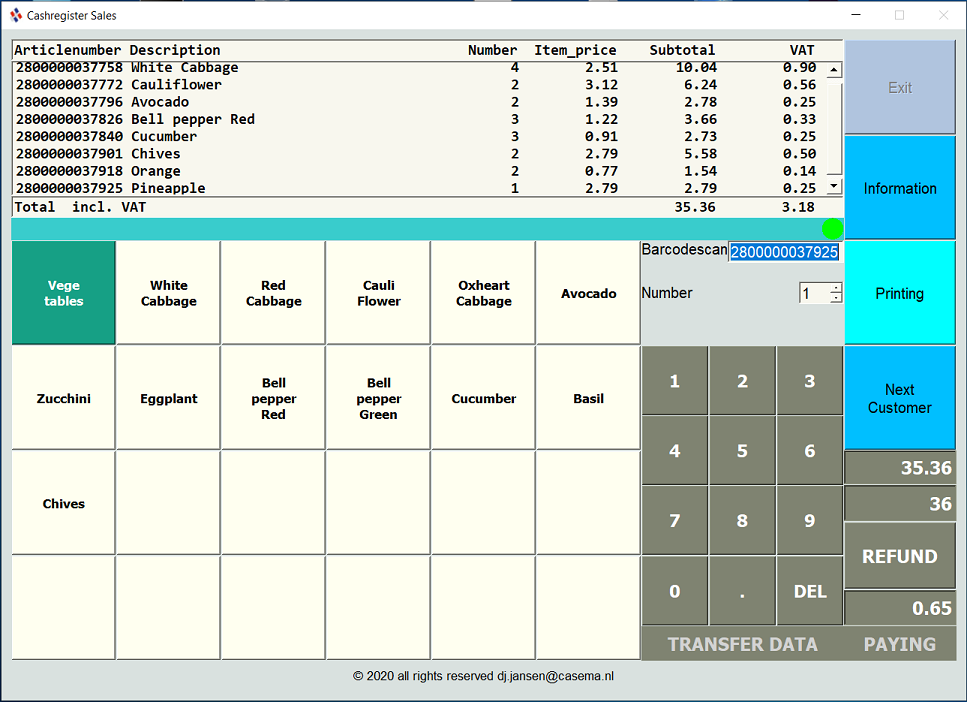
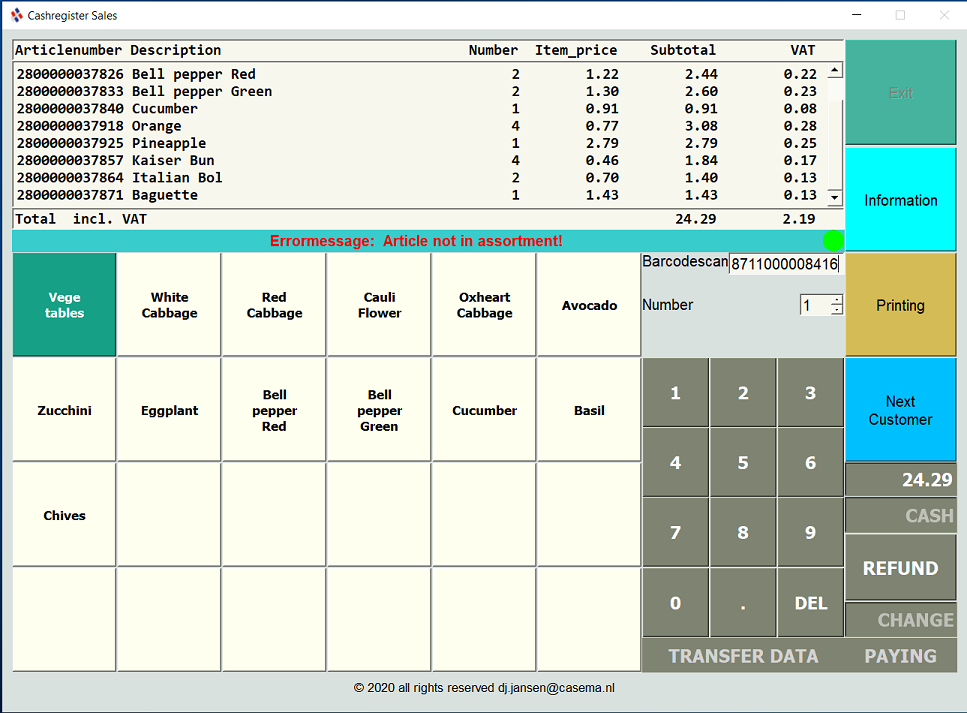
Add files via upload

diff --git a/sales.py b/sales.py
@@ -10,7 +10,7 @@ from PyQt5.QtWidgets import QLineEdit, QGridLayout, QDialog, QLabel, QPushButton
         QVBoxLayout, QTableView, QStyledItemDelegate, QCheckBox, QPlainTextEdit
 from PyQt5.QtPrintSupport import QPrinter, QPrintDialog
 from sqlalchemy import Table, Column, Integer, String, Boolean, MetaData, create_engine,\
-                     Float, select, update,insert, delete, func, and_, ForeignKey
+                     Float, select, update,insert, delete, func, and_
 
 def alertText(message):
     msg = QMessageBox()
@@ -5282,7 +5282,7 @@ def nextClient(self):
         self.closeBtn.setEnabled(True)
         self.closeBtn.setStyleSheet("color: black; background-color:  #B0C4DE")
         self.printBtn.setDisabled(True)
-        self.printBtn.setStyleSheet("color: grey; background-color: #00FFFF")
+        self.printBtn.setStyleSheet("color: grey; background-color: #d5bb55")
         self.nextBtn.setDisabled(True)
         self.nextBtn.setStyleSheet("color: grey; background-color: #00FFFF")
         
@@ -5442,9 +5442,9 @@ def set_barcodenr(self):
             giveAlarm()
                   
         self.closeBtn.setDisabled(True)
-        self.closeBtn.setStyleSheet("color: grey; background-color: #B0C4DE")
+        self.closeBtn.setStyleSheet("color: grey; background-color: #45b39d")
         self.printBtn.setEnabled(True)
-        self.printBtn.setStyleSheet("color: black;  background-color: #00FFFF")
+        self.printBtn.setStyleSheet("color: black;  background-color: #d5bb55")
         self.nextBtn.setEnabled(True)
         self.nextBtn.setStyleSheet("font: 12pt Arial; color: black; background-color: #00BFFF")
     elif len(barcodenr) == 8 and checkEan8(barcodenr):
@@ -5823,7 +5823,7 @@ def barcodeScan():
             self.printBtn.setFont(QFont("Arial",12))
             self.printBtn.setFocusPolicy(Qt.NoFocus)
             self.printBtn.setFixedSize(150,140)
-            self.printBtn.setStyleSheet("color: black;  background-color: #00FFFF")
+            self.printBtn.setStyleSheet("color: black;  background-color: #d5bb55")
       
             grid.addWidget(self.printBtn, 6, 10, 4, 1, Qt.AlignTop)
             
@@ -5851,7 +5851,7 @@ def barcodeScan():
             infoBtn.setFont(QFont("Arial",12))
             infoBtn.setFocusPolicy(Qt.NoFocus)
             infoBtn.setFixedSize(150,140)
-            infoBtn.setStyleSheet("color: black;  background-color: #00BFFF")
+            infoBtn.setStyleSheet("color: black;  background-color: #00FFFF")
     
             grid.addWidget(infoBtn, 2, 10, 4, 1, Qt.AlignBottom)
            
@@ -5860,7 +5860,7 @@ def barcodeScan():
             self.nextBtn.setFont(QFont("Arial",12))
             self.nextBtn.setFocusPolicy(Qt.NoFocus)
             self.nextBtn.setFixedSize(150,140)            
-            self.nextBtn.setStyleSheet("color:black; background-color: #3498db")
+            self.nextBtn.setStyleSheet("color:black; background-color: #00BFFF")
     
             grid.addWidget(self.nextBtn, 8, 10)   
             
